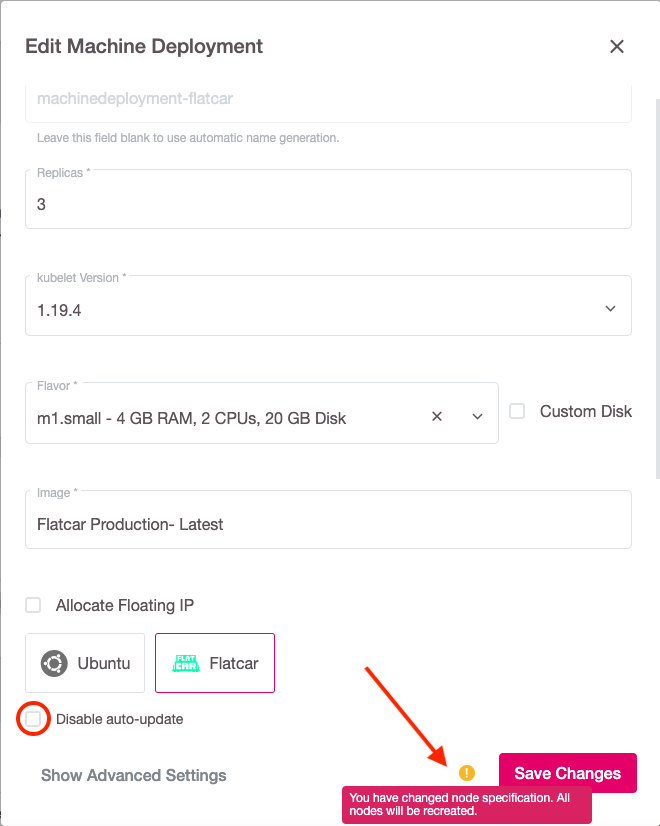
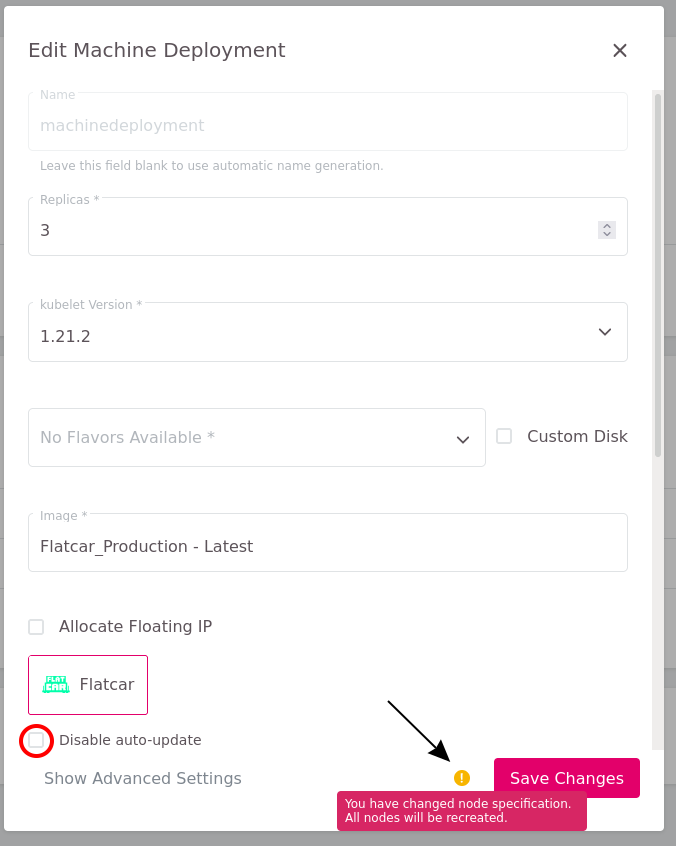
remove ubuntu and renew screen shots

diff --git a/docs/_imke/machinedeployments/updatingnodeos/index.de.md b/docs/_imke/machinedeployments/updatingnodeos/index.de.md
@@ -6,11 +6,6 @@ nav_order: 5500
 parent: Machine Deployments
 ---
 
-Die iMKE-Plattform erlaubt es Ihnen, das Betriebssystem der Worker-Nodes ihrer Kubernetes-Cluster über das `Machine Deployment` selbst zu wählen.
-
-* Für Flatcar kümmert sich die iMKE-Plattform (sofern nicht explizit deaktiviert) sogar um regelmäßige Betriebssystem-Updates, sowie das Einspielen von Sicherheitsupdates.
-* Für die Ubuntu-basierten Worker-Nodes werden die Updates und Patches auch automatisch eingespielt, allerdings muss sich der Cluster-Besitzer selber um die Reboots kümmern.
-
 ## Flatcar
 
 ### Flatcar Worker-Nodes automatisch aktualisieren
@@ -101,24 +96,10 @@ $ sudo systemctl reboot
 
 ## Ubuntu
 
-### Ubuntu Worker-Nodes automatisch aktualisieren
+Ubuntu wurde im July 2021 aus dem support genommen, bitte aktualisieren Sie ihre bestehenden Machine Deployments.
 
-Auf Ubuntu-basierten Worker-Nodes ist das Tool `unattended-upgrade` standardmäßig installiert und aktiviert,
-sodass die Updates automatisch eingespielt werden. Ubuntu verfügt allerdings über kein "Cluster-bewußtes"
-Tool wie FLUO, von daher führt `unattended-upgrade` standardmäßig keine automatischen Reboots durch.
+### Auf Flatcar wechseln
 
-Um die Nodes nach dem Einspielen von Patches automatisch durchzustarten, muss man in der Datei
-`/usr/share/unattended-upgrades/50unattended-upgrades` in der Zeile 69 die Einstellung
-`Unattended-Upgrade::Automatic-Reboot` aktivieren und auf `true` setzen:
-
-```bash
-// Automatically reboot *WITHOUT CONFIRMATION*
-//  if the file /var/run/reboot-required is found after the upgrade
-Unattended-Upgrade::Automatic-Reboot "true";
-```
-
-Bitte beachten Sie, dass die Reboots der einzelnen Knoten nicht koordiniert durchgeführt werden,
-was unter Umständen zu einer Downtime der Anwendung(en) in Ihrem Cluster führen kann.
 
 ## Zusammenfassung
 
@@ -134,4 +115,4 @@ In dieser Anleitung haben wir Folgendes gelernt:
 * [Auto-Updating Flatcar Container Linux](https://kinvolk.io/docs/lokomotive/git-main/how-to-guides/auto-update-flatcar/)
 * [FLUO on Github](https://github.com/kinvolk/flatcar-linux-update-operator)
 * [The Flatcar partitioning scheme](https://kinvolk.io/docs/flatcar-container-linux/latest/reference/developer-guides/sdk-disk-partitions/)
-* [man:unattended-upgrade](http://manpages.ubuntu.com/manpages/bionic/man8/unattended-upgrade.8.html)
+

diff --git a/docs/_imke/machinedeployments/updatingnodeos/index.en.md b/docs/_imke/machinedeployments/updatingnodeos/index.en.md
@@ -6,11 +6,6 @@ nav_order: 5500
 parent: Machine Deployments
 ---
 
-The iMKE platform gives you the control over choosing the OS of worker nodes in your Kubernetes clusters via the `Machine Deployment`.
-
-* For Flatcar, the iMKE platform even takes care (if not explicitly deactivated) of regular operating system updates, such as installing security patches.
-* For the Ubuntu-based worker nodes, the updates and patches are also installed automatically, but the cluster owners have to take care of the reboots themselves.
-
 ## Flatcar
 
 ### Automatic updates of Flatcar worker nodes
@@ -102,24 +97,10 @@ $ sudo systemctl reboot
 
 ## Ubuntu
 
-### Update Ubuntu worker nodes automatically
+Ubuntu support got removed in July 2021. Read here how to update to supported Flatcar OS for existing machine deployments
 
-The tool `unattended-upgrade` is by default installed and enabled on Ubuntu based worker nodes, so that
-it automatically updates available patches and updates. Ubuntu doesn't have a cluster-aware tool like FLUO
-though, therefore `unattended-upgrade` by default doesn't perform reboots automatically.
+### Update to Flatcar
 
-In order to reboot worker nodes automatically after installing patches, one has to edit the file
-`/usr/share/unattended-upgrades/50unattended-upgrades` and enable the setting `Unattended-Upgrade::Automatic-Reboot`
-in line 69 and set it to `true`:
-
-```bash
-// Automatically reboot *WITHOUT CONFIRMATION*
-//  if the file /var/run/reboot-required is found after the upgrade
-Unattended-Upgrade::Automatic-Reboot "true";
-```
-
-Please note that the reboots of the individual nodes are not carried out in a coordinated manner,
-which may lead to downtime of the application(s) in your cluster.
 
 ## Summary
 
@@ -135,4 +116,4 @@ In this guide you've learned the following:
 * [Auto-Updating Flatcar Container Linux](https://kinvolk.io/docs/lokomotive/git-main/how-to-guides/auto-update-flatcar/)
 * [FLUO on Github](https://github.com/kinvolk/flatcar-linux-update-operator)
 * [The Flatcar partitioning scheme](https://kinvolk.io/docs/flatcar-container-linux/latest/reference/developer-guides/sdk-disk-partitions/)
-* [man:unattended-upgrade](http://manpages.ubuntu.com/manpages/bionic/man8/unattended-upgrade.8.html)
+
